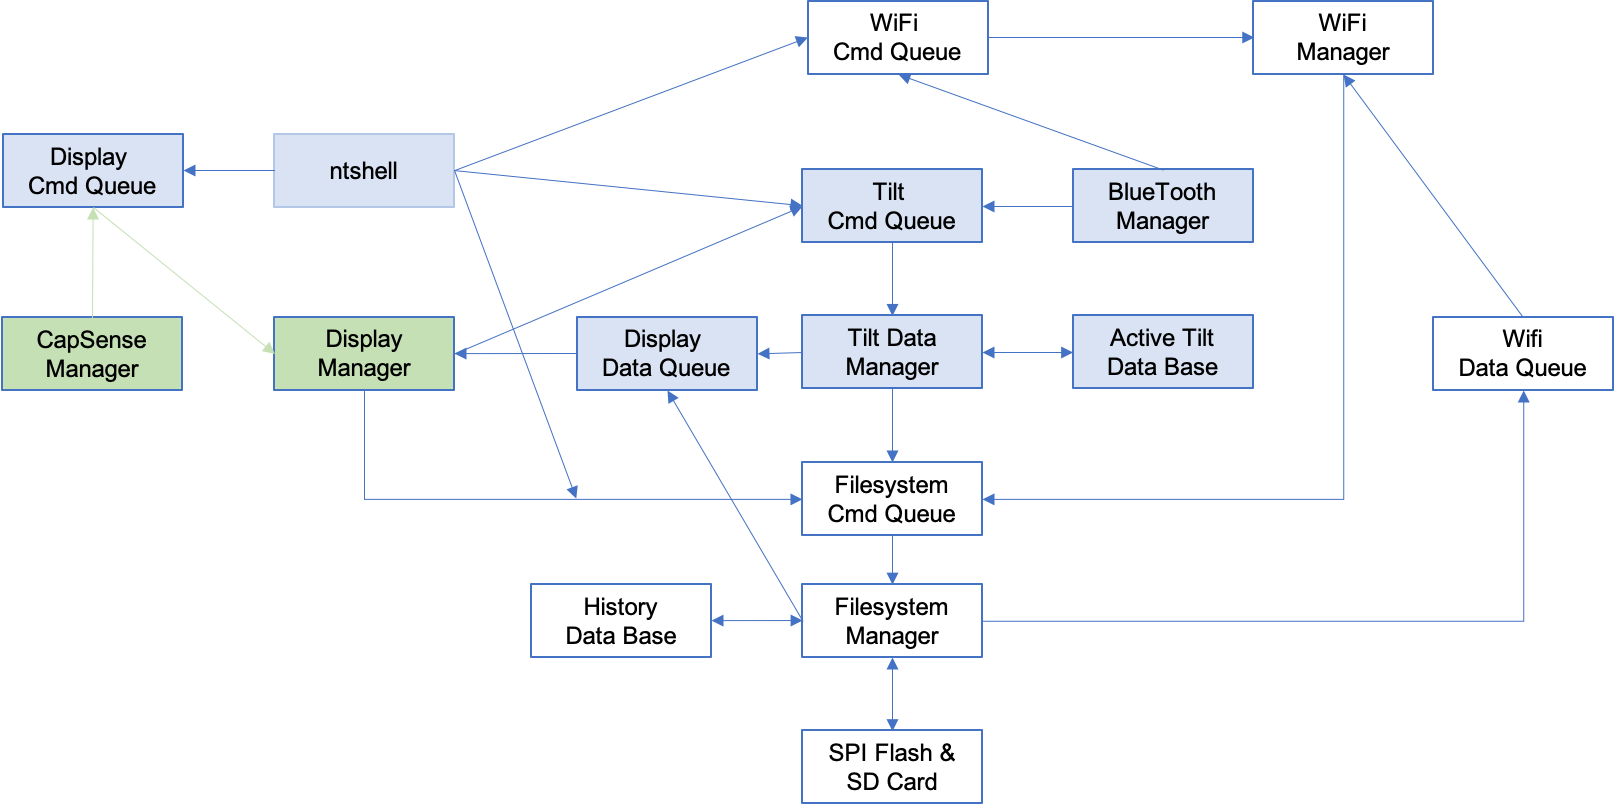
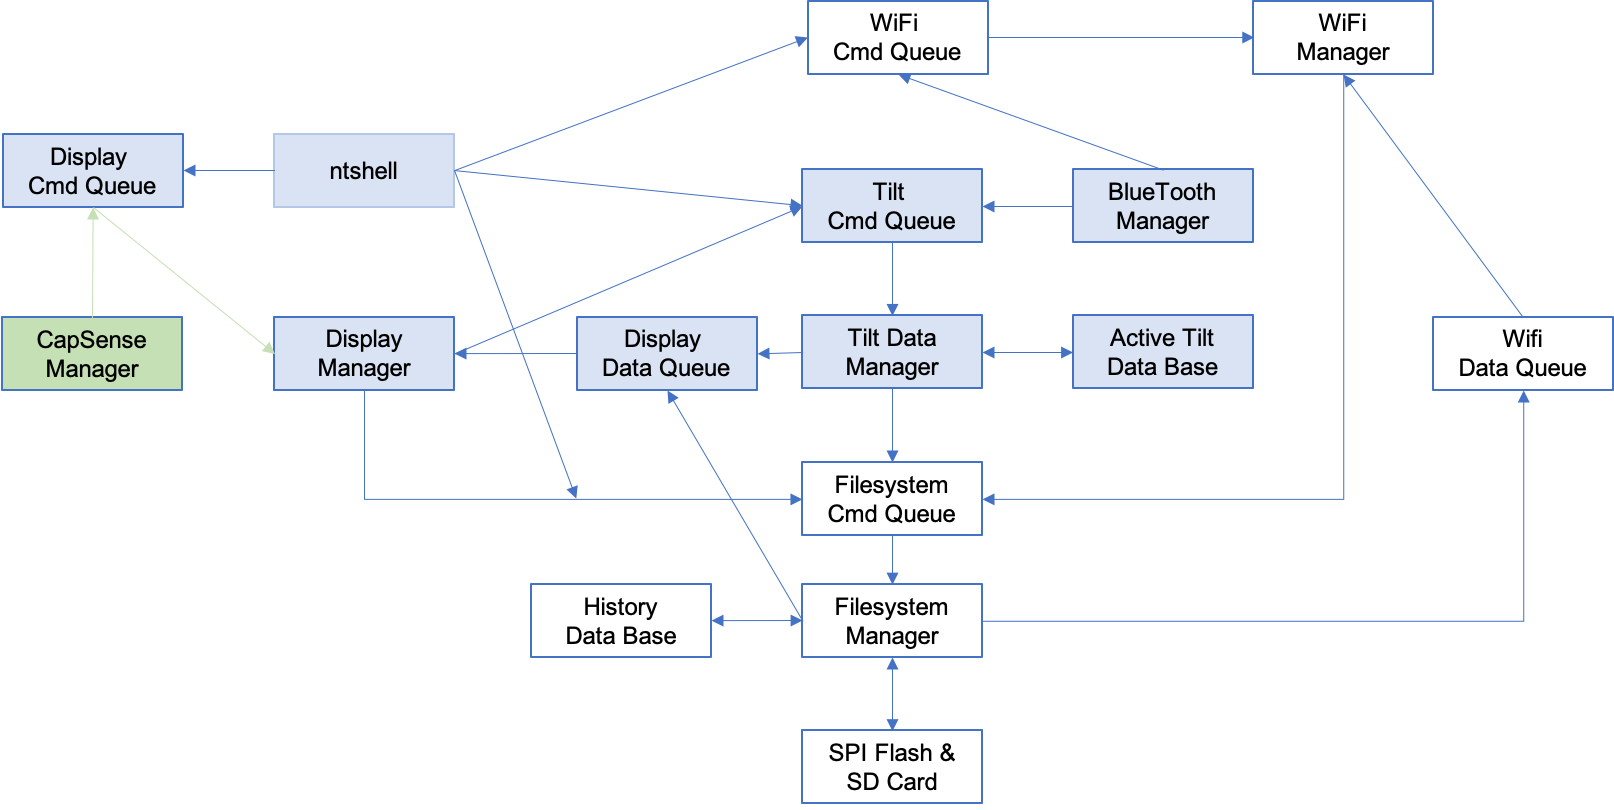
Part 12 - CapSense

Changed region(s): [[0.1549, 0.3704, 0.2788, 0.4938]]

diff --git a/capsenseManager.c b/capsenseManager.c
@@ -1,0 +1,69 @@
+#include <stdio.h>
+
+#include "cycfg_capsense.h"
+
+#include "FreeRTOS.h"
+#include "task.h"
+#include "semphr.h"
+
+#include "displayManager.h"
+
+static SemaphoreHandle_t cpm_semaphore;
+
+static void cpm_isr(void)
+{
+    Cy_CapSense_InterruptHandler(CYBSP_CSD_HW, &cy_capsense_context);
+}
+
+static void cpm_callback(cy_stc_active_scan_sns_t *ptrActiveScan)
+{
+    xSemaphoreGiveFromISR(cpm_semaphore,portMAX_DELAY);
+}
+
+void cpm_task()
+{
+    cpm_semaphore = xSemaphoreCreateCounting(10,0);
+
+    static const cy_stc_sysint_t CapSense_ISR_cfg =
+    {
+        .intrSrc = csd_interrupt_IRQn, /* Interrupt source is the CSD interrupt */
+        .intrPriority = 7u,            /* Interrupt priority is 7 */
+    };
+
+    Cy_CapSense_Init(&cy_capsense_context);
+        
+    Cy_SysInt_Init(&CapSense_ISR_cfg, &cpm_isr);
+    NVIC_ClearPendingIRQ(CapSense_ISR_cfg.intrSrc);
+    NVIC_EnableIRQ(CapSense_ISR_cfg.intrSrc);
+
+    Cy_CapSense_RegisterCallback	(CY_CAPSENSE_END_OF_SCAN_E,cpm_callback, &cy_capsense_context); 
+    Cy_CapSense_Enable (&cy_capsense_context);
+
+    int button0Prev = 0;
+    int button1Prev = 0;
+    int button0Curr = 0;
+    int button1Curr = 0;
+    while(1)
+    {
+        Cy_CapSense_ScanAllWidgets (&cy_capsense_context);
+        xSemaphoreTake(cpm_semaphore,portMAX_DELAY);
+        Cy_CapSense_ProcessAllWidgets(&cy_capsense_context);
+        button0Curr = Cy_CapSense_IsWidgetActive(CY_CAPSENSE_BUTTON0_WDGT_ID,&cy_capsense_context);
+        button1Curr = Cy_CapSense_IsWidgetActive(CY_CAPSENSE_BUTTON1_WDGT_ID,&cy_capsense_context);
+
+        if(button0Curr != button0Prev && button0Curr == 1)
+        {
+            dm_submitAutoCmd();
+        }
+        if(button1Curr != button1Prev && button1Curr == 1)
+        {
+            dm_submitNextScreenCmd();
+        }
+
+        button0Prev = button0Curr;
+        button1Prev = button1Curr;
+
+        vTaskDelay(20); // 50 Hz Update Rate
+
+    }
+}

diff --git a/main.c b/main.c
@@ -11,6 +11,7 @@
 #include "bt_platform_cfg_settings.h"
 #include "tiltDataManager.h"
 #include "displayManager.h"
+#include "capsenseManager.h"
 
 volatile int uxTopUsedPriority ;
 TaskHandle_t blinkTaskHandle;
@@ -46,6 +47,7 @@ int main(void)
     xTaskCreate(usrcmd_task, "USR CMD", configMINIMAL_STACK_SIZE*4,0 /* args */ ,0 /* priority */, 0);
     xTaskCreate(tdm_task, "Tilt Data Manager", configMINIMAL_STACK_SIZE*2,0 /* args */ ,0 /* priority */, 0);
     xTaskCreate(dm_task, "Display Manager", configMINIMAL_STACK_SIZE*3,0 /* args */ ,0 /* priority */, 0);
+    xTaskCreate(cpm_task, "CapSense Manager", configMINIMAL_STACK_SIZE*2,0 /* args */ ,0 /* priority */, 0);
 
     vTaskStartScheduler();
 }

diff --git a/capsenseManager.h b/capsenseManager.h
@@ -1,0 +1,2 @@
+#pragma once
+void cpm_task();
